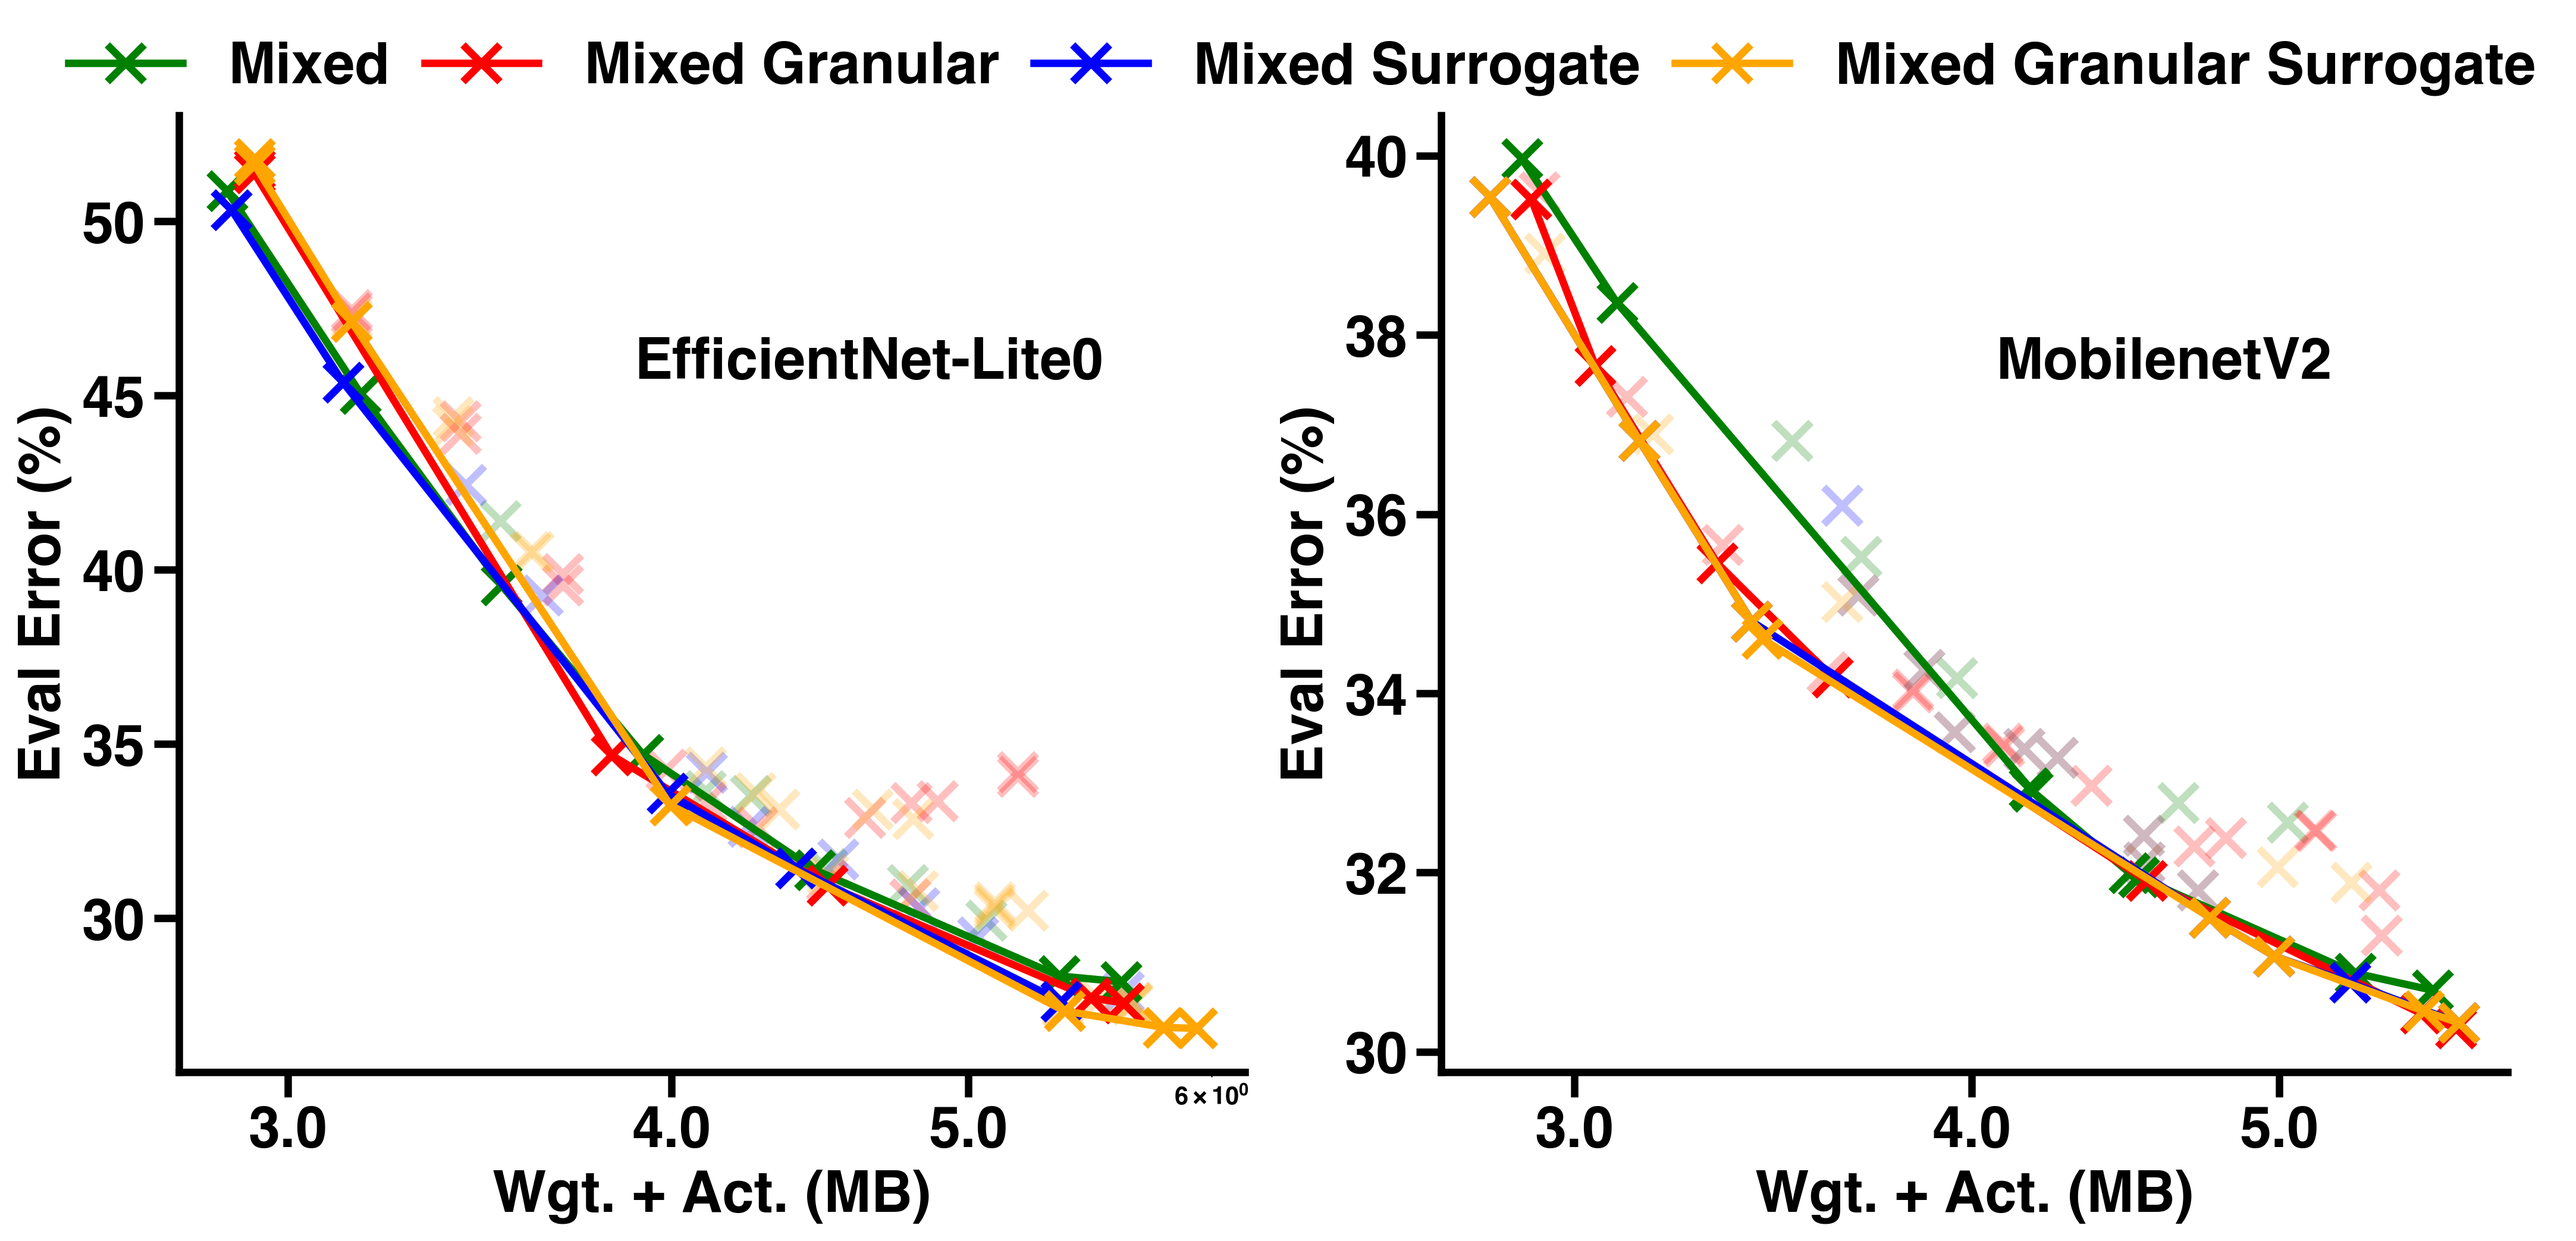
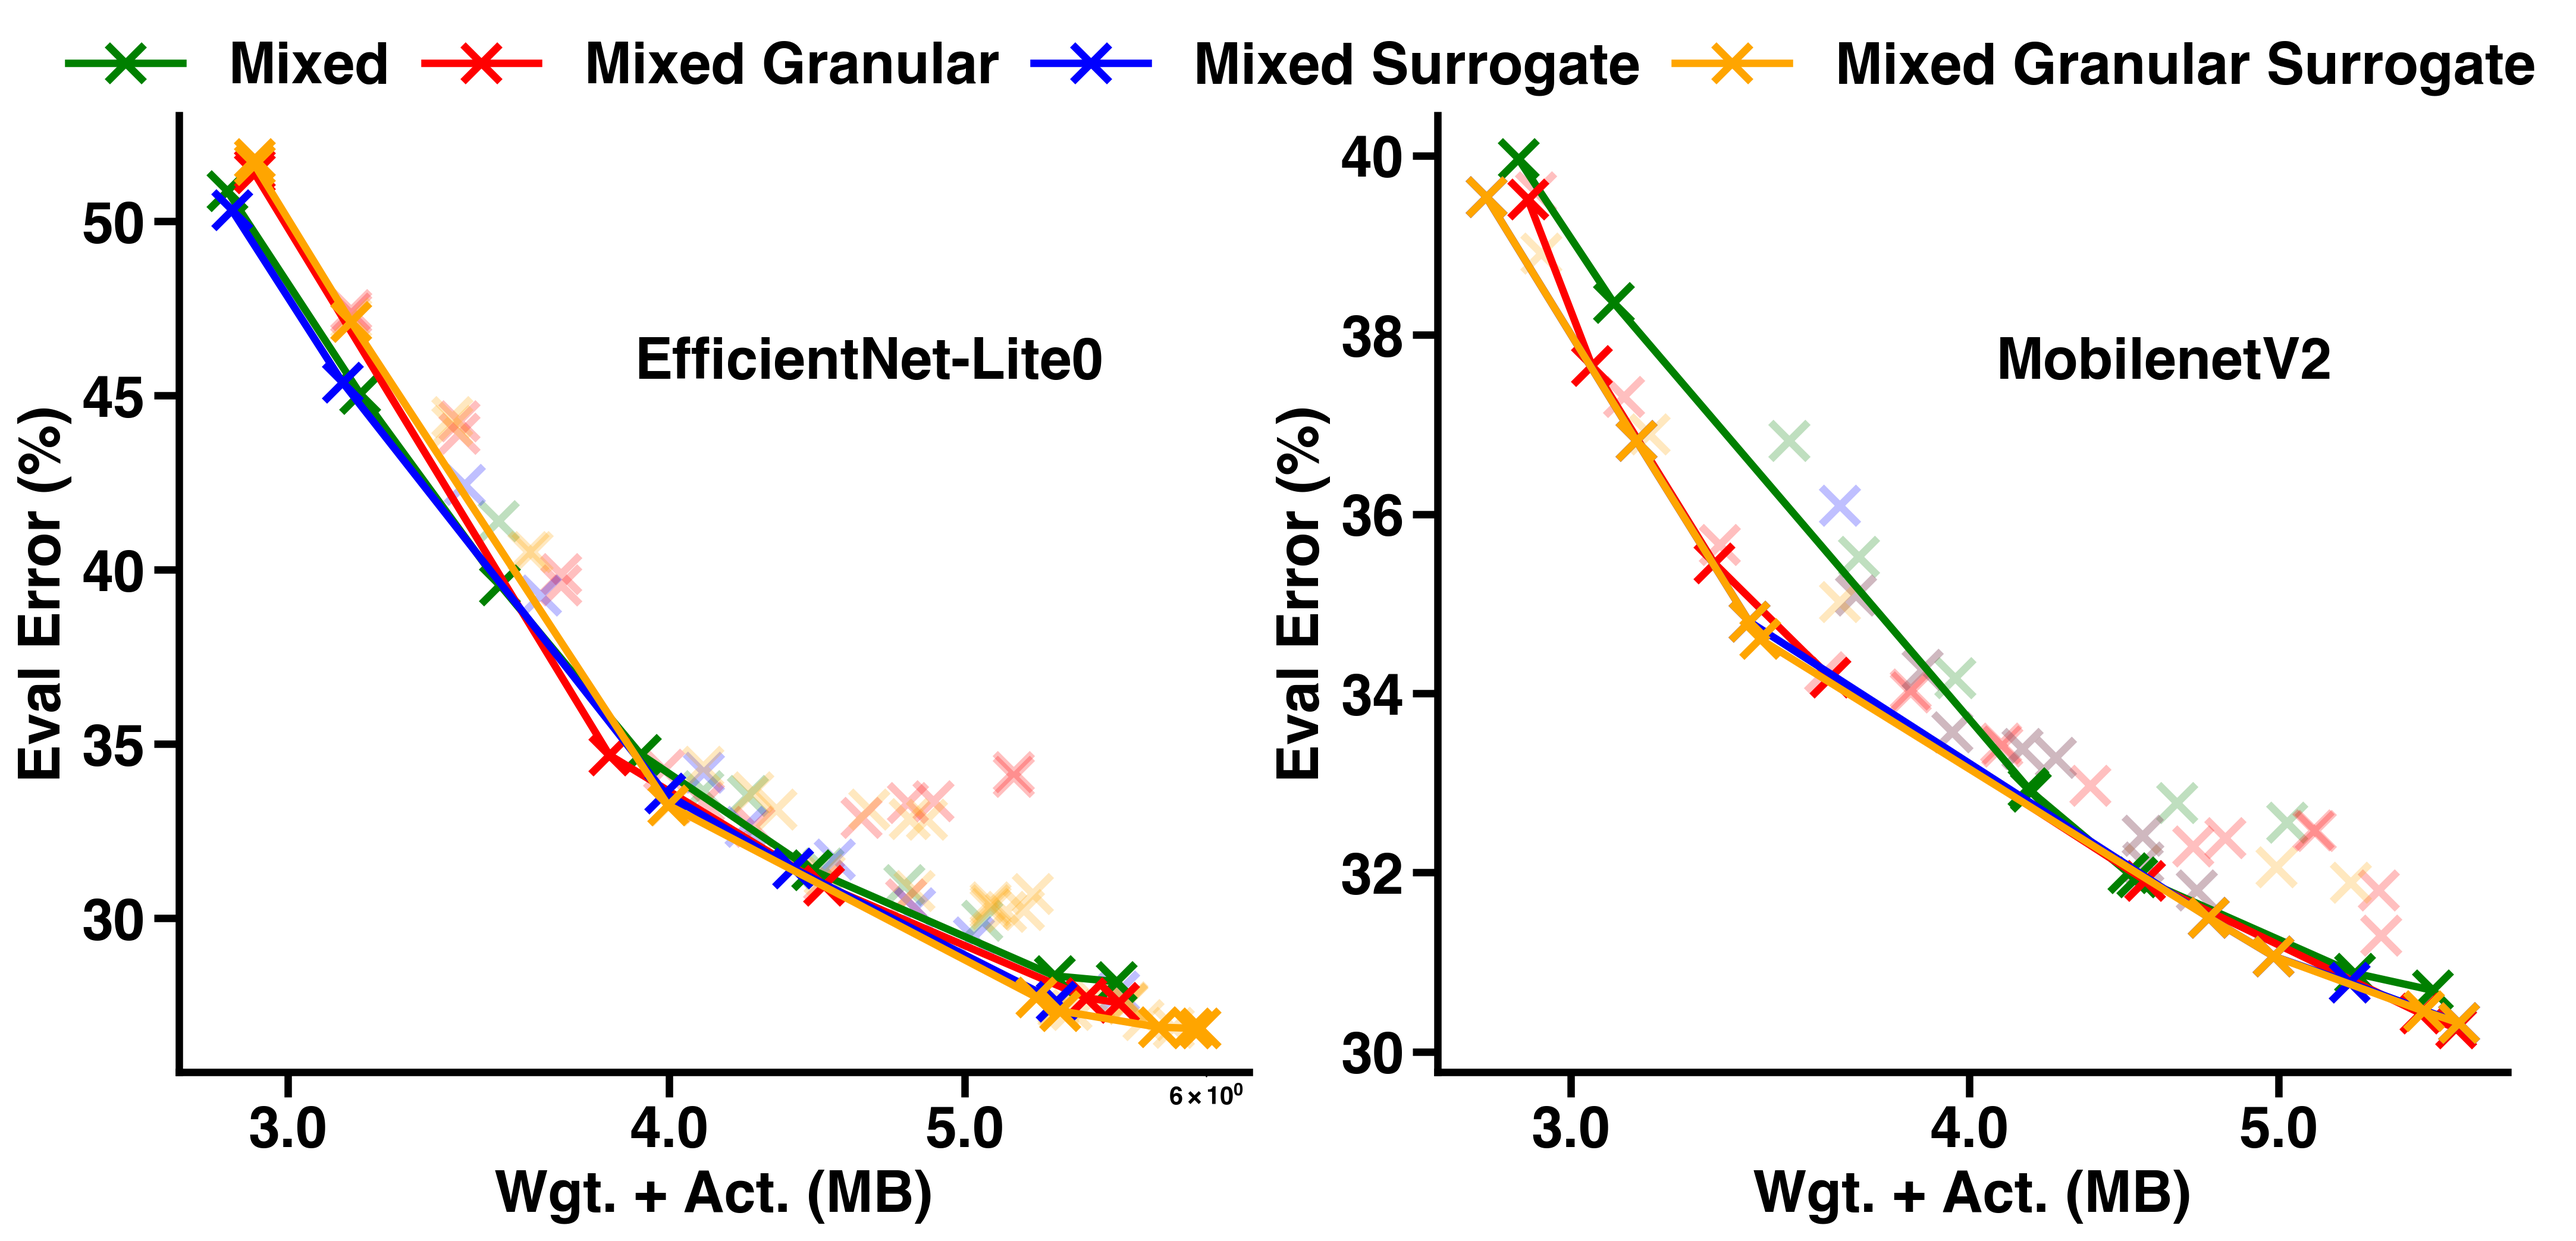
normal - more results

diff --git a/examples/efficientnet/visualization.py b/examples/efficientnet/visualization.py
@@ -472,10 +472,11 @@ def plot_comparison(name):
 
   # efficientnet
   ax.plot(np.array([2.925111084, 2.925306152, 3.1460351570000005, 3.9969198,
-                    5.373107422, 5.788132813, 5.932807129]) + 0.084032,
-          [51.7965, 51.6317, 47.127300000000005, 33.247899999999994,
-           27.337599999999995, 26.867700000000006,
-           26.837200000000006], marker='x',
+                    5.27848999, 5.373107422, 5.788132813, 5.932807129,
+                    5.973300536999999]) + 0.084032,
+          [51.7965, 51.6317, 47.127300000000005, 33.247899999999994, 
+           27.728299999999994, 27.337599999999995, 26.867700000000006, 
+           26.837200000000006, 26.833099999999998], marker='x',
           label='EfficientNet-Lite0 (Ours)', ms=mw, markeredgewidth=gen_lw,
           linewidth=gen_lw)
 
